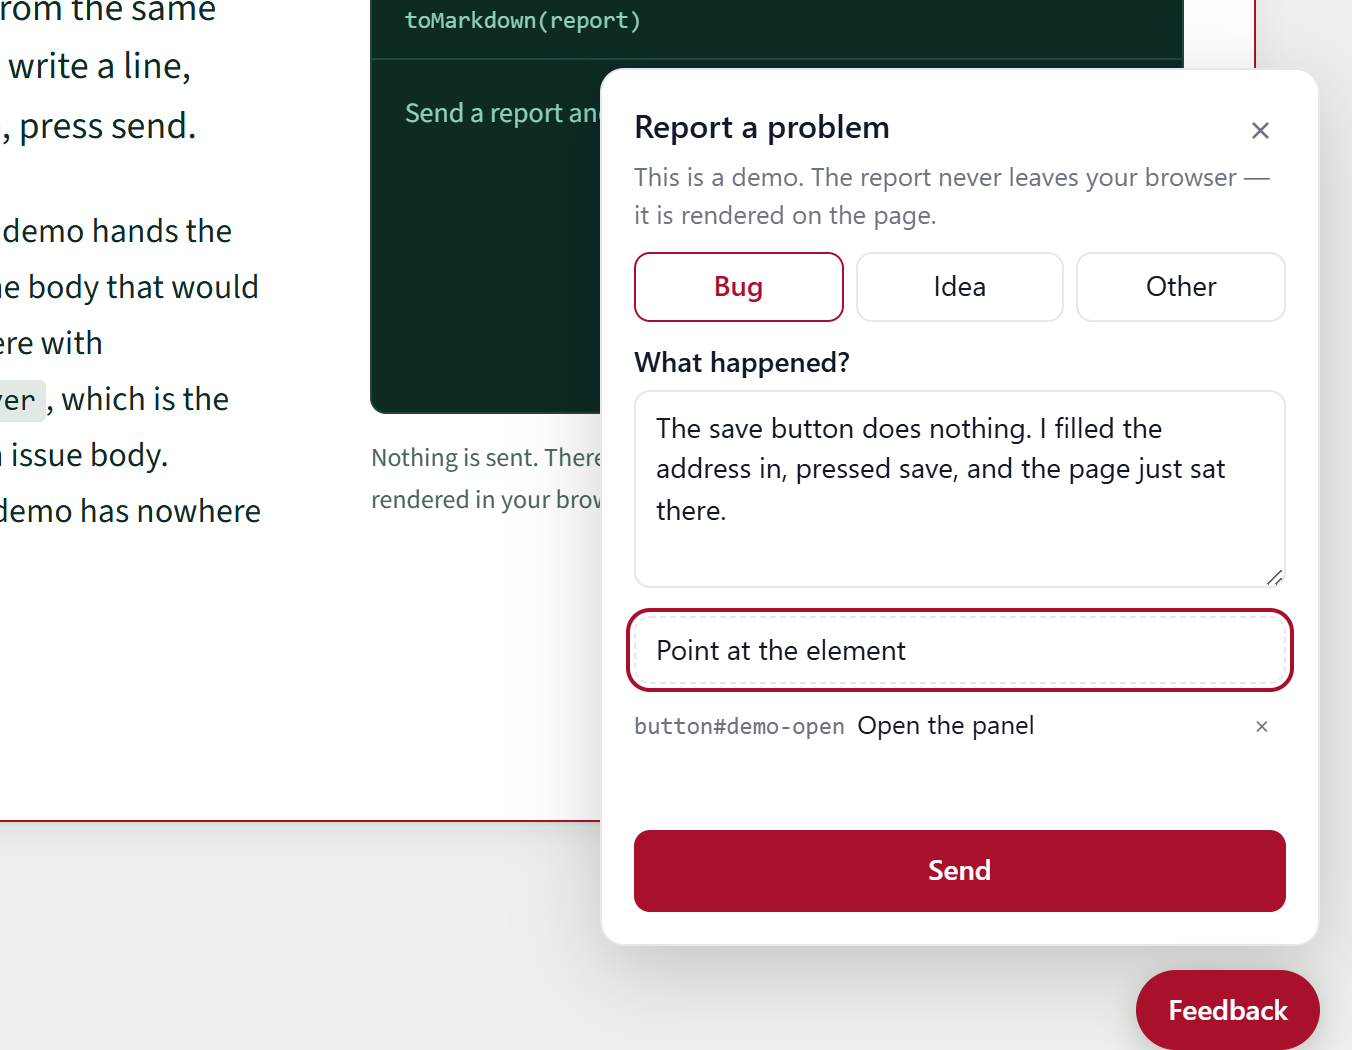
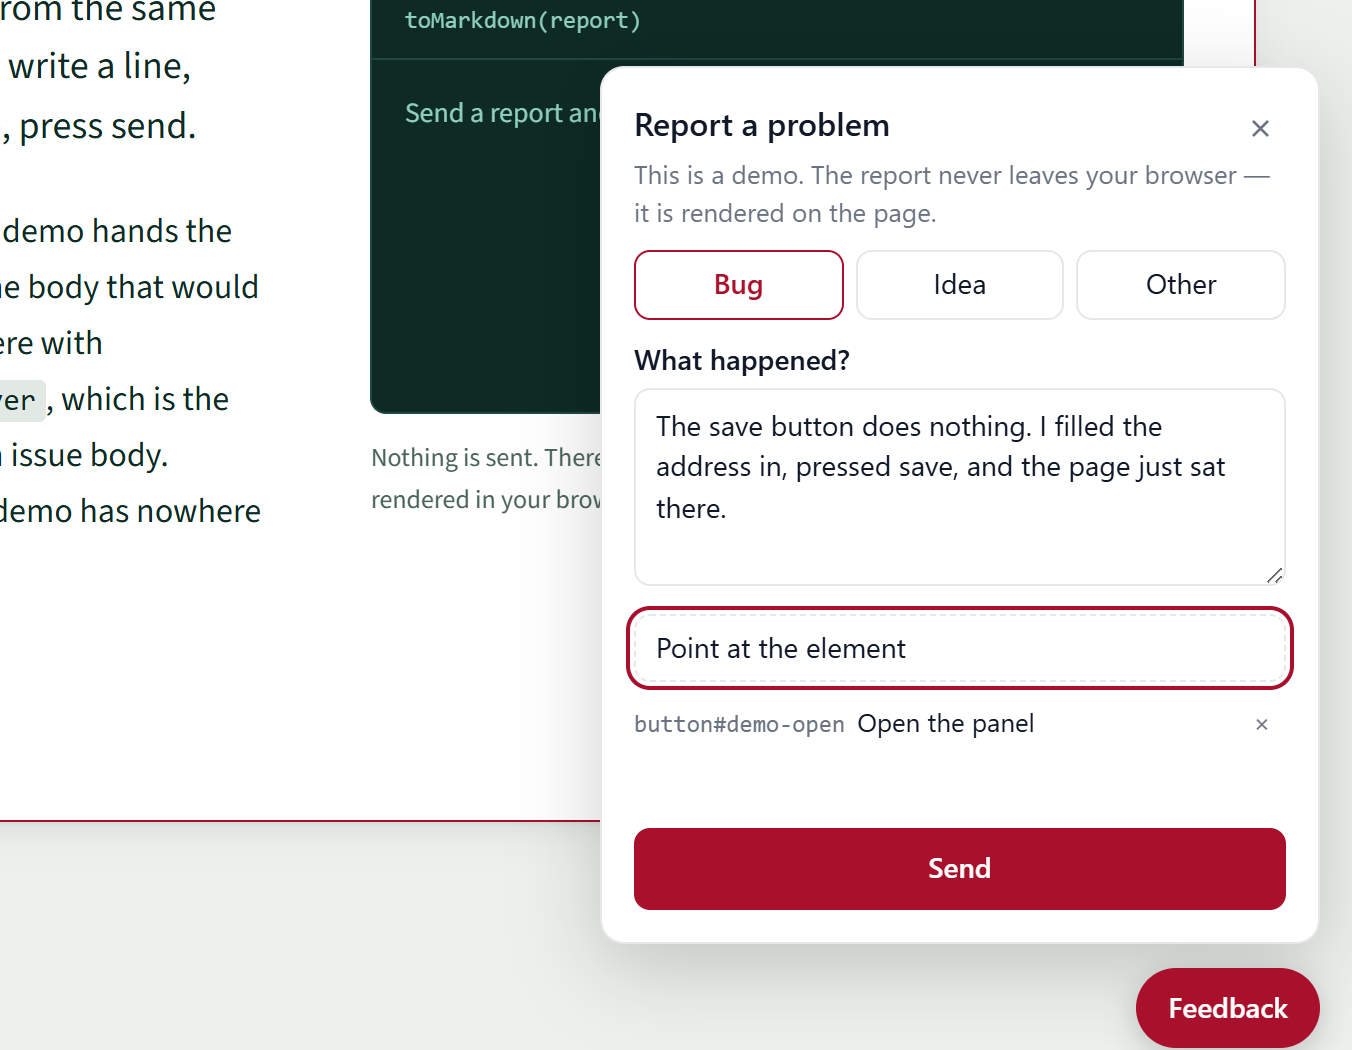
Give the Danish page a Danish panel, and write the pass down
- The Danish hero showed an English panel, which is a picture of a different
  product. scripts/capture-panel.mjs now shoots /da/ as well and writes
  site/panel-da.png and site/panel-da-narrow.png, with the message from that
  page's own opening paragraph.
- site/README.md: a section on the two typefaces and how to refresh them, the
  hero rewritten for four pictures and a script, the OpenGraph render as a
  script (with the note that a family name containing a digit must be quoted
  or the text silently comes out in Times), the documentation sidebar as a
  disclosure, and a section on the accessibility audit and the performance
  floor.
- CLAUDE.md: site/fonts/ and the three new scripts in the layout table,
  npm run a11y / shot:panel / shot:og in the commands, and the site's own
  bar — six pages in two schemes at zero violations, Lighthouse mobile at or
  above 95 — beside the panel's.
- CHANGELOG.md under Unreleased and docs/roadmap.md under "Already shipped".
- site/Dockerfile copies the two new pictures.

Verified: npm run check green; npm run a11y green over seventeen states (five
panel, twelve page); no console error or warning on any of the six pages at
1280 and 390 in headless Chrome; Lighthouse mobile on / at 97 with a
cumulative layout shift of 0, measured against a server that gzips text the
way nginx does in the image.

Fixes #40

diff --git a/site/da/index.html b/site/da/index.html
@@ -83,8 +83,8 @@
       <figure class="shot">
         <div class="shot-frame">
           <picture>
-            <source media="(max-width: 48rem)" srcset="/panel-narrow.png" width="788" height="950">
-            <img src="/panel.png" width="1352" height="1050" alt="bugbottle-panelet åbent oven på denne side: en besked om en gem-knap, der ikke gør noget, elementet brugeren har peget på, og en send-knap." loading="eager" decoding="async">
+            <source media="(max-width: 48rem)" srcset="/panel-da-narrow.png" width="788" height="950">
+            <img src="/panel-da.png" width="1352" height="1050" alt="bugbottle-panelet åbent oven på denne side: en besked om en gem-knap, der ikke gør noget, elementet brugeren har peget på, og en send-knap." loading="eager" decoding="async">
           </picture>
         </div>
         <figcaption>

diff --git a/site/README.md b/site/README.md
@@ -6,8 +6,8 @@ comparison page in both languages at `/compare/` and `/da/sammenlign/`. The
 landing pages are static HTML written by hand; the documentation, the
 comparison, `sitemap.xml` and `robots.txt` are generated when the image is
 built. No framework, no analytics, no
-cookies, and no external request of any kind — the fonts are the system stack
-and the favicon is an inline SVG.
+cookies, and no external request of any kind: the two typefaces are served
+from this host and the favicon is an inline SVG.
 
 | File | Role |
 |---|---|
@@ -16,17 +16,57 @@ and the favicon is an inline SVG.
 | `style.css` | Shared by every page. Colour tokens on `:root`, redefined once for dark mode |
 | `docs.css` | The documentation pages only, loaded after `style.css` and leaning on its tokens |
 | `demo.js` | Mounts the real `bugbottle/ui` panel with a fake `fetch`, plus the scroll reveal and the copy buttons on the code slabs |
-| `docs.js` | The documentation pages only: copy buttons, and the current heading in "On this page" |
+| `docs.js` | The documentation pages only: copy buttons, the topic list closing on a phone, and the current heading in "On this page" |
+| `fonts/` | The four woff2 faces the page is set in, latin only. See "The typefaces" below |
 | `docs/` | **Generated, never committed.** Written by `scripts/build-docs.mjs`; see "The documentation" below |
 | `compare.md` | The English "Compared with" page, as Markdown. The only prose on the site that is neither the landing page nor the README |
 | `da/sammenlign.md` | The same page in Danish, written for a Danish reader rather than translated |
 | `compare/`, `da/sammenlign/` | **Generated, never committed.** The two pages above, rendered by `scripts/build-docs.mjs`; see "The comparison" below |
 | `sitemap.xml`, `robots.txt` | **Generated, never committed.** Written by the same script; see "The sitemap and robots.txt" below |
 | `panel.png` | A real capture of the panel open on this page, in the hero. See "The hero screenshot" below |
+| `panel-narrow.png` | The same capture clipped to the panel alone, used by the hero below 48rem |
+| `panel-da.png`, `panel-da-narrow.png` | The same pair from `/da/`, where the panel is in Danish |
 | `og.svg` | Source of the OpenGraph picture. Not served |
 | `og.png` | 1200x630, rendered from `og.svg`; `og:image` on both pages |
 | `nginx.conf` | Replaces `conf.d/default.conf`: `/health`, caching, gzip |
 | `Dockerfile` | A `node:22-alpine` stage that generates `docs/`, then `nginx:alpine` plus these files and `dist/` |
+
+## The typefaces
+
+Two families, and no more: **Newsreader** at 600 for the headings, the hero
+headline and the table captions, and **Source Sans 3** at 400, 400 italic and
+600 for everything else, including the prose. Code stays in the system
+monospace stack, which is a third family only in the sense that every machine
+already has it.
+
+The files came from Google Fonts and are **served from this host**, not linked
+from `fonts.googleapis.com`. The footer promises that the page makes no
+external request, and a stylesheet fetched from a third party would hand that
+party the address of every reader of a page whose whole argument is that
+nothing sits in the middle. It is also faster: no second connection to open
+before the first line of text can be drawn.
+
+Only the latin cut of each face is kept. `æ`, `ø` and `å` and every mark the
+two languages use live inside `U+0000-00FF`, the `unicode-range` on each
+`@font-face` says so, and a word outside that range falls back to the system
+stack for that word rather than costing 60 kB more font.
+
+To refresh a face, ask the API for it with a browser's user agent, take the
+`/* latin */` block, and save the file it names into `fonts/`:
+
+```bash
+ua='Mozilla/5.0 (Windows NT 10.0; Win64; x64) AppleWebKit/537.36 (KHTML, like Gecko) Chrome/120.0.0.0 Safari/537.36'
+curl -sA "$ua" 'https://fonts.googleapis.com/css2?family=Newsreader:wght@600&display=swap'
+curl -sA "$ua" 'https://fonts.googleapis.com/css2?family=Source+Sans+3:ital,wght@0,400;0,600;1,400&display=swap'
+# then curl each latin URL into site/fonts/<family>-<weight>.woff2
+```
+
+Ask for `Newsreader:wght@600` rather than for an optical-size range: the range
+is served as one variable font of 60 kB, the single weight as 24 kB.
+
+`index.html`, `da/index.html` and the shell in `scripts/build-docs.mjs` preload
+the two faces the first screen needs, so `font-display: swap` swaps before the
+page paints and Lighthouse measures no layout shift.
 
 ## The demo
 
@@ -46,20 +86,42 @@ renderer is given and the panel does not offer the checkbox.
 
 ## The hero screenshot
 
-`panel.png` is a real capture, not an illustration: the panel open on this
-page, message filled in, an element pointed at, taken headless at 2x with the
-global `puppeteer-core` and Chrome and saved at `site/panel.png`. It carries
-`width`/`height` on the `<img>` so the hero does not shift while it loads, and
-it must stay under 150 kB.
+`panel.png` is a real capture, not an illustration: the panel open on the
+landing page, message filled in, an element pointed at, taken headless at 2x
+with the global `puppeteer-core` and Chrome. `scripts/capture-panel.mjs` is
+that procedure written down — it serves `site/` with `/dist/` mapped to the
+repository's build, exactly as nginx does, drives the real panel, and clips
+two frames out of one capture:
 
-The `<img>` sits inside a `.shot-frame`, which is what actually reserves the
-space: the frame owns the aspect ratio (16/11 on a desktop, 5/4 on a phone)
-and the picture fills it with `object-fit: cover` anchored to its right edge,
-where the panel is. So the crop comes off the left, which is only the page
-behind the panel at a size nobody can read. A replacement capture should keep
-the panel at the right of the frame or the crop will cut it. Re-capture it whenever the panel's own look changes
-enough that the screenshot stops matching — there is no build step that keeps
-it in sync automatically.
+```bash
+npm run build        # the demo runs the real dist/
+npm run shot:panel
+```
+
+It stands the panel over the **demo section** rather than over the hero. The
+picture ends up in the hero, so capturing there photographs the previous copy
+of itself down the left edge; the demo section is also where the panel
+belongs, and its flat plate keeps the file small. Both pictures carry
+`width`/`height` on the element so the hero does not shift while they load,
+and the script fails if either passes 150 kB.
+
+There are two of them because a phone cannot use the wide one. The `<img>`
+sits inside a `.shot-frame`, which is what reserves the space: on a desktop
+the frame owns the ratio and `panel.png` fills it with `object-fit: cover`
+anchored to its right edge, so the crop comes off the left, where there is
+only page behind the panel at a size nobody can read. At 342 points across,
+that crop leaves the panel too small to read, so below 48rem a `<source>`
+hands the frame `panel-narrow.png` — the same capture clipped to the panel
+alone — and the frame takes that picture's own proportions instead.
+
+There are four files rather than two because the panel on `/da/` is in Danish.
+An English panel in the Danish hero would be a picture of a different product,
+so the script shoots both pages and writes `panel-da.png` and
+`panel-da-narrow.png` beside the English pair.
+
+Re-run the script whenever the panel's own look changes. Nothing keeps the
+pictures in sync automatically, and a hero showing a panel the library no
+longer draws is worse than no hero at all.
 
 ## The OpenGraph picture
 
@@ -68,15 +130,21 @@ colours and the report card cannot drift from the page. It is drawn in the
 light palette — the pale green ground, bottle green ink, seal red on the four
 marks — because a link preview lands in a timeline that has already chosen a
 background, and the light page is the one a first visit gets. The report card
-is the only dark thing in it, exactly as on the page. Edit the SVG and render
-it again with the global `puppeteer-core` and Chrome:
+is the only dark thing in it, exactly as on the page.
 
-```js
-const page = await browser.newPage();
-await page.setViewport({ width: 1200, height: 630 });
-await page.setContent(`<!doctype html><meta charset="utf-8">` + svgSource);
-await page.screenshot({ path: "site/og.png", clip: { x: 0, y: 0, width: 1200, height: 630 } });
+Edit the SVG and render it again:
+
+```bash
+npm run shot:og
 ```
+
+`scripts/render-og.mjs` wraps the SVG in a document that declares the two
+families from `site/fonts/` as data URLs and waits for `document.fonts.ready`
+before the shutter. Without that the render would be a picture of the fallback
+stack, which is not what the site looks like. Note that a family name with a
+digit in it — `Source Sans 3` — has to be quoted inside the `font-family`
+attribute, or the whole declaration is dropped and the text silently comes out
+in Times.
 
 ## The documentation
 
@@ -112,10 +180,18 @@ the page that now holds that anchor, and a relative path becomes a blob URL.
 Images become their alt text, so the footer's promise about external requests
 stays true.
 
-Only two things happen in the browser, both in `docs.js`: the copy buttons, and
-marking the current heading in "On this page". Which page is current, the
-anchors and the pager are written into the HTML, so a reader without JavaScript
-still gets a finished page.
+The sidebar is a `<details>` written **open**, so a reader without JavaScript
+gets the whole list at every width, which is what the page did before there
+was one. On a phone `docs.js` closes it at load and renames its summary after
+the page you are on: twenty-eight links standing between a reader and the
+article they asked for are a wall, not a table of contents.
+
+Three things happen in the browser, all in `docs.js`: the copy buttons, that
+disclosure, and marking the current heading in "On this page". Which page is
+current, the anchors and the pager are written into the HTML, so a reader
+without JavaScript still gets a finished page. The three words the copy button
+says follow `document.documentElement.lang`, because the two comparison pages
+load this same file and one of them is Danish.
 
 To check the pages after a change, serve the image and drive it with the global
 `puppeteer-core` and Chrome: every page should load with no console error, mark
@@ -125,6 +201,30 @@ when its button is pressed. Note that headless Chrome refuses
 falls back to a selection and `execCommand`, which is the path that check
 actually exercises — and that Windows hands the text back with CRLF line
 endings, so compare normalised.
+
+## The accessibility audit
+
+`scripts/a11y-site.mjs` is the check that a stylesheet cannot quietly break.
+It serves `site/` and `dist/` the way nginx does, and runs the pinned
+`axe-core` over both landing pages, the documentation index, one deep
+documentation page and the two comparison pages, in **both colour schemes** —
+twelve runs. It fails on a console message as well as on a violation, because
+a page that logs one is a page that is half-working and nothing else here
+would notice.
+
+```bash
+npm run build && npm run build:docs
+npm run a11y     # the panel audit, then this one
+```
+
+It scrolls each page before it looks, because the landing page reveals its
+sections as the reader arrives at them and axe does not audit what is not
+visible.
+
+The pages must also stay fast: performance on `/` measured 97 on Lighthouse
+mobile with no layout shift, against a floor of 95. Measure it against a
+server that gzips text, as nginx does in the image — against one that does
+not, the same page scores 89 and the difference is entirely `dist/`.
 
 ## The comparison
 
@@ -223,6 +323,8 @@ curl -si localhost:8089/compare/ | head -1
 curl -si localhost:8089/da/sammenlign/ | head -1
 curl -si localhost:8089/sitemap.xml | head -3
 curl -si localhost:8089/robots.txt | head -3
+curl -si localhost:8089/fonts/sourcesans3-400.woff2 | head -1
+curl -si localhost:8089/panel-narrow.png | head -1
 ```
 
 `/health` returns `ok` as `text/plain` and is not logged — it is what the

diff --git a/CLAUDE.md b/CLAUDE.md
@@ -41,13 +41,17 @@ adapters wrap it; server-side validators check what arrives. No UI, no backend, 
 | `src/global.ts` | Entry for the IIFE `dist/bugbottle.js`: `window.bugbottle` + `data-*` auto-mount. Built by `scripts/build-iife.mjs` (esbuild), excluded from the tsc emit | everything |
 | `src/sinks/` | Server-only delivery: `sendReportEmail` (Resend), `sendReportWebhook` (json/slack/discord), `createGithubIssue`, `createLinearIssue` (GraphQL, so a rejected mutation arrives as a 200 with `errors` and still throws), the shared `SinkError`. One `fetch` each, keys and URLs are arguments — never `process.env` | markdown, locales, report-core |
 | `site/` | The landing page (EN + DA), static, served by nginx from `site/Dockerfile` on Dokploy. Not part of the npm package | dist (at image build) |
+| `site/fonts/` | The four woff2 faces the site is set in — Newsreader 600, Source Sans 3 400/400i/600, latin only. Taken from Google Fonts and **served from this host**: the footer promises no external request, so a `fonts.googleapis.com` link is not an option. `site/README.md` has the recipe | nothing |
 | `site/docs/` | **Generated, never committed.** One page per README section, written by `scripts/build-docs.mjs` (marked, pinned) in the Dockerfile's `node:22-alpine` builder stage. The README is the only copy of that text; a new `##` section must be placed in the script's `GROUPS` or the build fails | README.md (at image build) |
 | `site/compare/`, `site/da/sammenlign/`, `site/sitemap.xml`, `site/robots.txt` | **Generated, never committed**, by the same `scripts/build-docs.mjs` run. The comparison pages come from `site/compare.md` and `site/da/sammenlign.md` — every vendor claim links its source and the figures are dated; the sitemap lists every URL with `hreflang` alternates on the two bilingual pairs | site/compare.md, site/da/sammenlign.md (at image build) |
 | `src/server/` | Re-exports of report-core, markdown and the sinks for `bugbottle/server` | report-core, markdown, sinks |
 | `src/server/handle.ts` | `handleReport(request, options)` — `Request` in, `Response` out: 405 for anything but POST, authorise, body cap and body deadline, the optional HMAC `signature` check over the raw text, every validator, `extra`, scrub, screenshot policy, `store`, ordered sinks under a per-sink deadline. Plus `ValidatedReport` and the `toResend`/`toWebhook`/`toGithub`/`toLinear` sink helpers | report-core, markdown, scrub, sinks |
 | `src/server/express.ts` | `expressHandler(options)` — builds a web `Request` from an Express `req` and writes the `Response` back, counting and streaming-decoding a raw body itself. Structural types, no `@types/express` | server/handle |
 | `scripts/build-schema.ts` | Generates `dist/report.schema.json` from `BugReport` with ts-json-schema-generator, switches the dialect to 2020-12, applies the `MAX_*` limits, and serialises with sorted keys so the committed dist is stable. Run by `npm run build` after tsc; `tests/schema.test.ts` imports it rather than reading the built file | report-core |
-| `scripts/a11y-audit.mjs` | Serves `dist/` on a scratch page, mounts the panel and runs the pinned `axe-core` over five states through `puppeteer-core`. `npm run a11y`; not part of `npm run check`, because it needs a browser | dist (at run time) |
+| `scripts/a11y-audit.mjs` | Serves `dist/` on a scratch page, mounts the panel and runs the pinned `axe-core` over five states through `puppeteer-core`. The first half of `npm run a11y`; not part of `npm run check`, because it needs a browser | dist (at run time) |
+| `scripts/a11y-site.mjs` | The same audit aimed at the pages rather than the widget: both landing pages, the documentation index, one deep documentation page and the two comparison pages, in both colour schemes, failing on a console message as well as on a violation. The second half of `npm run a11y`; needs `npm run build:docs` first | site, dist (at run time) |
+| `scripts/capture-panel.mjs` | The four hero pictures: the real panel, opened on the real page over the demo section, clipped wide and narrow at 2x from `/` and again from `/da/` (where the panel speaks Danish), each under a 150 kB budget. `npm run shot:panel` | site, dist (at run time) |
+| `scripts/render-og.mjs` | `site/og.png` from `site/og.svg` at 1200x630, with the two faces loaded as data URLs and `document.fonts.ready` awaited before the shutter. `npm run shot:og` | site (at run time) |
 | `scripts/annotate-smoke.mjs` | The pixel proof of the blur in a real Chrome: paints a noisy picture, drags a blur and a rectangle over it, decodes the export and checks that every block in the region is flat, none of them is the original, and nothing outside changed. `npm run smoke:annotate` | dist (at run time) |
 | `tests/` | `node:test`, run on the TypeScript source directly. `tests/report-fixtures.ts` holds the payloads shared by `handle.test.ts` and `schema.test.ts` | |
 | `action/` | GitHub Action (`mahope/bugbottle@v0`) validating exported JSON reports. Zero deps, rules inlined from report-core; `tests/action.test.ts` pins them together | nothing |
@@ -121,7 +125,9 @@ npm run check       # typecheck → test → build → docs, in that order; run 
 npm test            # node --test on tests/*.test.ts (needs Node 22+)
 npm run build       # tsc → dist/ (ESM + .d.ts + source maps) → report.schema.json → IIFE
 npm run build:docs  # site/docs/, /compare/, /da/sammenlign/, sitemap.xml, robots.txt; fails on an ungrouped `##` section
-npm run a11y        # axe-core over the panel in a real Chrome; needs a build first
+npm run a11y        # axe-core over the panel and over the site pages, in a real Chrome; needs a build and build:docs first
+npm run shot:panel  # re-capture the hero pictures from the current panel
+npm run shot:og     # re-render site/og.png from site/og.svg
 npm run smoke:annotate  # the blur really pixelates, in a real Chrome; needs a build first
 npm pack --dry-run  # confirm only dist/, README, LICENSE, package.json ship
 ```
@@ -182,7 +188,13 @@ in `node:test`. Serve `dist/` from a scratch page, drive it with the global
 `scripts/a11y-audit.mjs` is that procedure written down: it serves `dist/`,
 mounts the panel with everything showing and runs the pinned `axe-core` over
 five states (closed, open light, open dark, annotator light, annotator dark),
-exiting non-zero on a violation. `scripts/annotate-smoke.mjs` is the same
+exiting non-zero on a violation. `scripts/a11y-site.mjs` is the same procedure
+aimed at `site/`: six pages in two colour schemes, and a console message counts
+as a failure there too. Site changes also carry a performance floor —
+Lighthouse mobile on `/` must stay at or above 95, and it measured 97 with no
+layout shift — but measure it against a server that gzips text, because nginx
+does and an ungzipped measurement is about six points lower for reasons that
+have nothing to do with the page. `scripts/annotate-smoke.mjs` is the same
 procedure aimed at pixels rather than at the accessibility tree: only a real
 canvas can say whether the blur destroyed what it covered.
 

diff --git a/CHANGELOG.md b/CHANGELOG.md
@@ -7,6 +7,24 @@ change the API; the changelog says so when they do.
 
 ## Unreleased
 
+### Changed
+
+- **The site is set in two typefaces of its own** — Newsreader for the
+  headings, Source Sans 3 for everything else — served from `bugbottle.dev`
+  rather than linked from Google, so the footer's promise that the page makes
+  no external request stays true. Latin only, preloaded, `font-display: swap`,
+  no layout shift. A second design pass came with them: the hero picture fills
+  its column, the screenshot warning is printed on the dark ground the code
+  slabs use, the documentation pages carry the landing page's header instead of
+  one of their own, the topic list collapses on a phone, and the footer has a
+  language switch. Nothing in the library changed.
+- **`npm run a11y` now audits the site as well as the panel.**
+  `scripts/a11y-site.mjs` runs axe over both landing pages, the documentation
+  index, a deep documentation page and the two comparison pages in both colour
+  schemes, and fails on a console message as well as on a violation.
+  `scripts/capture-panel.mjs` and `scripts/render-og.mjs` make the hero and the
+  link preview, which were made by hand before.
+
 ## 0.6.0 — 2026-09-07
 
 The adoptable release: one form state shared by React, Vue and Svelte; a

diff --git a/docs/roadmap.md b/docs/roadmap.md
@@ -100,6 +100,15 @@ picture" flow over it: a labelled toolbar, the tools as a `radiogroup`, focus
 back to the button that opened it, eight new strings in eight languages,
 `annotate: false` and `data-annotate="off"` to switch it off.
 
+**Alongside** — a second design pass over bugbottle.dev: two typefaces of its
+own (Newsreader and Source Sans 3, served from the site rather than from
+Google, so the page still makes no external request), one grid under the
+landing page, the screenshot warning printed on the dark ground the code slabs
+use, the documentation carrying the landing page's own header with a topic
+list that collapses on a phone, and a language switch in the footer. Audited
+with `scripts/a11y-site.mjs` — six pages, two colour schemes, zero violations
+and no console message — and Lighthouse mobile at 97 with no layout shift.
+
 **Alongside** — the WordPress plugin `mahope/bugbottle-wordpress` (panel plus
 endpoint, private post type, admin, email, Danish and English), and the GitHub
 Action `mahope/bugbottle@v0` that validates exported reports in CI.
